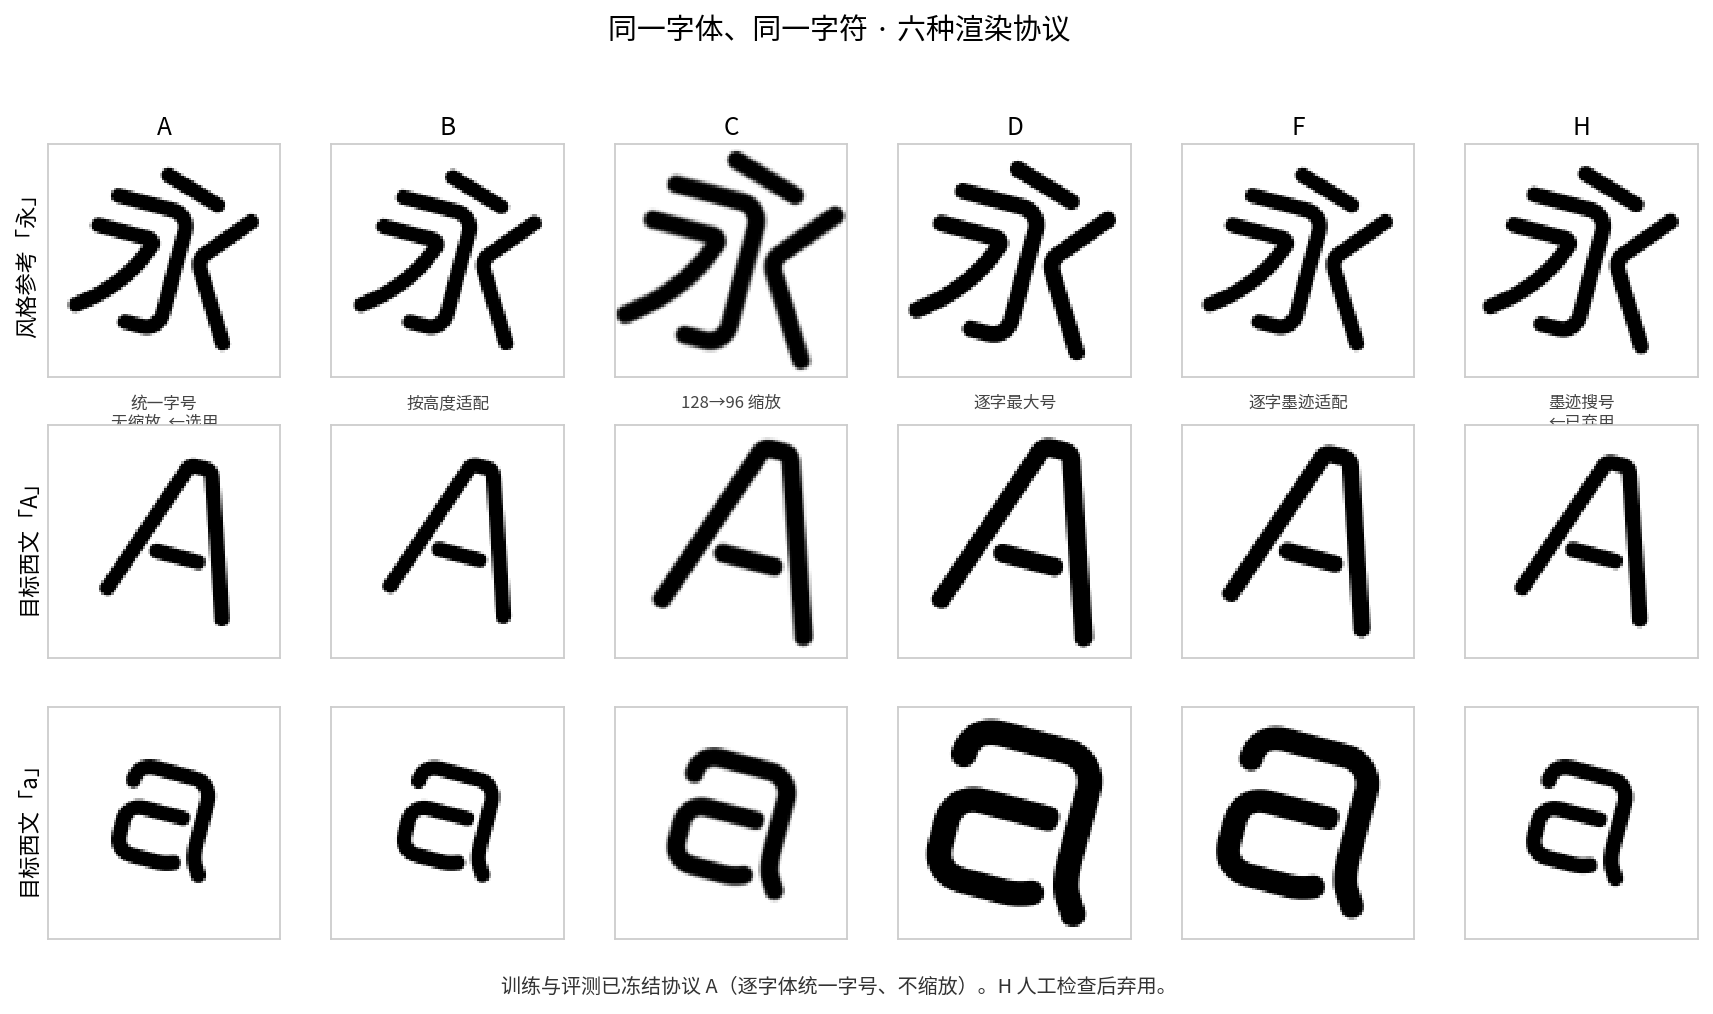
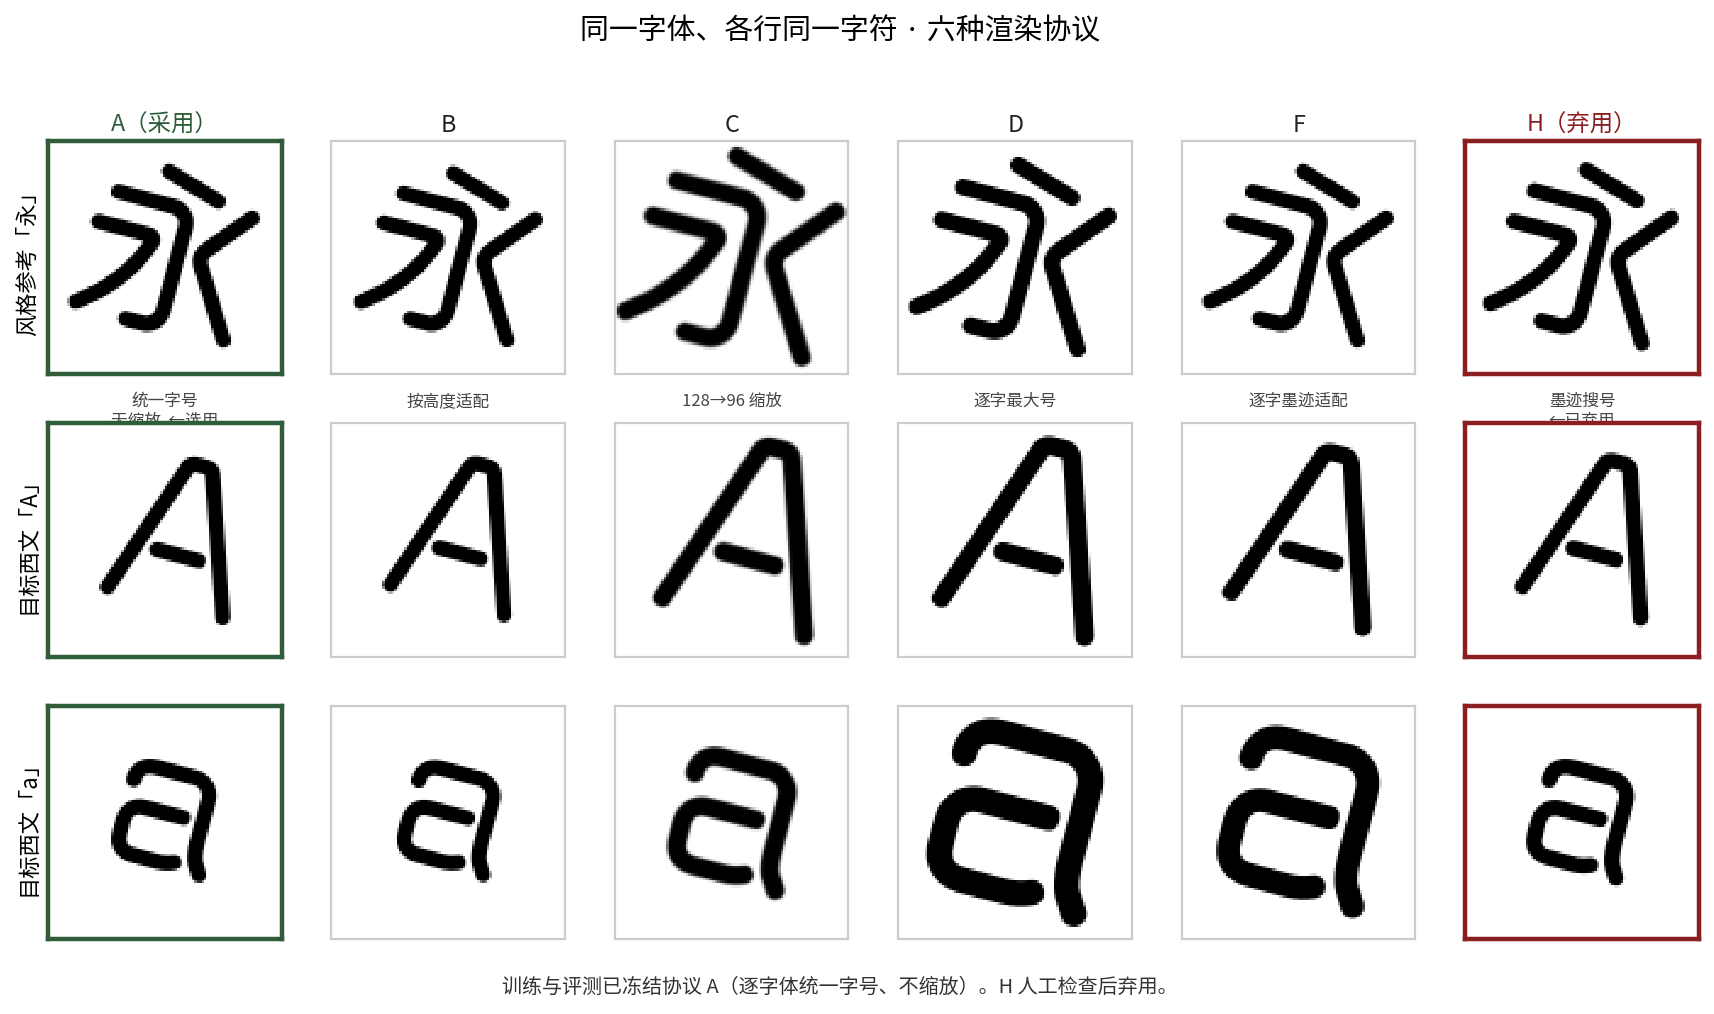
docs: clarify E2b versus E2 comparison

diff --git a/scripts/build_weekly_mentor_figs.py b/scripts/build_weekly_mentor_figs.py
@@ -65,17 +65,19 @@ def fig_protocols() -> None:
             ax.set_xticks([])
             ax.set_yticks([])
             for spine in ax.spines.values():
-                spine.set_color("#cccccc")
+                spine.set_color("#2f5d3a" if proto == "A" else "#8b1e1e" if proto == "H" else "#cccccc")
+                spine.set_linewidth(2.0 if proto in ("A", "H") else 1.0)
             if i == 0:
-                title = f"{proto}"
-                ax.set_title(title, fontproperties=cjk(11, "bold"), pad=4)
+                title = "A（采用）" if proto == "A" else "H（弃用）" if proto == "H" else proto
+                title_color = "#2f5d3a" if proto == "A" else "#8b1e1e" if proto == "H" else "#222"
+                ax.set_title(title, fontproperties=cjk(10.5, "bold"), pad=4, color=title_color)
                 ax.text(
                     0.5, -0.08, PROTO_NOTE[proto], transform=ax.transAxes,
                     ha="center", va="top", fontproperties=cjk(7.5), color="#444",
                 )
             if j == 0:
                 ax.set_ylabel(rlab, fontproperties=cjk(10))
-    fig.suptitle("同一字体、同一字符 · 六种渲染协议", fontproperties=cjk(13, "bold"), y=0.995)
+    fig.suptitle("同一字体、各行同一字符 · 六种渲染协议", fontproperties=cjk(13, "bold"), y=0.995)
     fig.text(
         0.5, 0.01,
         "训练与评测已冻结协议 A（逐字体统一字号、不缩放）。H 人工检查后弃用。",
@@ -108,53 +110,93 @@ def _arrow(ax, start, end):
 
 
 def fig_method() -> None:
-    fig, axes = plt.subplots(1, 2, figsize=(11.4, 4.8))
+    fig, ax = plt.subplots(figsize=(13.4, 8.2))
     fig.patch.set_facecolor("white")
-    titles = ["官方 FontDiffuser：参考字结构", "本方法：目标字残差 Δ"]
-    faces = ("#f4f6f8", "#eef6f1")
-    for ax, title, bg in zip(axes, titles, faces):
-        ax.set_xlim(0, 10)
-        ax.set_ylim(0, 10)
-        ax.set_aspect("equal")
-        ax.axis("off")
-        ax.set_title(title, fontproperties=cjk(12, "bold"), pad=8)
-        ax.add_patch(mpatches.Rectangle((0.15, 0.2), 9.7, 9.4, facecolor=bg, edgecolor="none"))
+    ax.set_xlim(0, 14)
+    ax.set_ylim(0, 11.5)
+    ax.axis("off")
 
-    ax = axes[0]
-    _box(ax, (0.5, 7.6), 4.0, 1.5, "中文风格参考\n（同时送入 Es 与 Ec）", "#fff", fs=8.5)
-    _box(ax, (5.5, 7.6), 4.0, 1.5, "中性内容图\n（西文字 c）", "#fff")
-    _arrow(ax, (2.5, 7.6), (2.5, 6.35))
-    _arrow(ax, (7.5, 7.6), (7.5, 6.35))
-    _box(ax, (0.5, 4.7), 4.0, 1.5, "Ec(参考字)\n→ 结构支路 RSI", "#fff4df", edge="#9a6700")
-    _box(ax, (5.5, 4.7), 4.0, 1.5, "Ec(c)\n→ 身份支路", "#fff")
-    _box(ax, (0.5, 2.6), 9.0, 1.4, "Es(参考字) → 风格注意力", "#fff")
-    _arrow(ax, (2.5, 4.7), (3.2, 4.1))
-    _arrow(ax, (7.5, 4.7), (6.8, 4.1))
-    _arrow(ax, (5.0, 2.6), (5.0, 2.15))
-    _box(ax, (2.2, 0.5), 5.6, 1.5, "UNet 生成西文 c\nRSI 学习参考字与 c 的空间错位", "#fff4df", edge="#9a6700", fs=8.5)
-    ax.text(5, 9.55, "官方即允许异字；跨语系对应更弱是本文假设", ha="center",
-            fontproperties=cjk(7.7), color="#7a5200")
+    fig.suptitle(
+        "E2b vs E2：逐项对照（预期唯一变量 = RSI 结构源）",
+        fontproperties=cjk(15, "bold"), y=0.985,
+    )
+    ax.text(
+        7, 10.82,
+        "两组都从 E1@100k 初始化；冻结 Es/Ec；n-shot 风格条件、UNet、RSI 内部与 loss 相同",
+        ha="center", va="center", fontproperties=cjk(9), color="#444",
+    )
 
-    ax = axes[1]
-    _box(ax, (0.4, 7.6), 3.0, 1.5, "中文参考 R\n（风格）", "#fff")
-    _box(ax, (3.6, 7.6), 3.0, 1.5, "库字体上的\n同一个 c", "#fff")
-    _box(ax, (6.8, 7.6), 2.8, 1.5, "中性 c\n（Noto）", "#fff")
-    _arrow(ax, (1.9, 7.6), (1.9, 6.35))
-    _arrow(ax, (5.1, 7.6), (4.4, 6.35))
-    _arrow(ax, (8.2, 7.6), (6.8, 6.35))
-    _box(ax, (0.4, 4.7), 3.0, 1.5, "Es(R)\n风格 9 token", "#fff")
-    _box(ax, (3.6, 4.7), 6.0, 1.5, "加权混合 − 中性编码  =  Δ\n同字、相对变化", "#d9efe3", edge="#2f5d3a", fs=9)
-    _arrow(ax, (1.9, 4.7), (3.2, 3.55))
-    _arrow(ax, (6.6, 4.7), (6.6, 3.55))
-    _box(ax, (0.4, 2.5), 4.4, 1.4, "风格注意力\n（官方支路，不动）", "#fff", fs=8.5)
-    _box(ax, (5.1, 2.5), 4.5, 1.4, "RSI 结构源改为 Δ\n（模块本身不改）", "#d9efe3", edge="#2f5d3a", fs=8.5)
-    _arrow(ax, (2.6, 2.5), (4.2, 2.1))
-    _arrow(ax, (7.3, 2.5), (5.8, 2.1))
-    _box(ax, (2.2, 0.45), 5.6, 1.5, "UNet 生成西文 c\n结构与身份指向同一个字", "#d9efe3", edge="#2f5d3a")
-    ax.text(5, 9.55, "改接线，不改 RSI 内部", ha="center",
-            fontproperties=cjk(8.5), color="#2f5d3a")
+    label_x, left_x, right_x = 0.25, 2.45, 8.25
+    box_w, box_h = 5.15, 1.25
+    row_y = [8.95, 7.25, 5.55, 3.85, 2.15]
+    row_labels = [
+        ("风格条件", "共享"),
+        ("内容条件", "共享"),
+        ("RSI 结构源", "唯一预期差异"),
+        ("RSI 内部", "共享"),
+        ("训练设置", "共享"),
+    ]
 
-    fig.tight_layout()
+    ax.add_patch(mpatches.FancyBboxPatch(
+        (left_x, 9.95), box_w, 0.62, boxstyle="round,pad=0.02,rounding_size=0.08",
+        facecolor="#fff4df", edgecolor="#9a6700", linewidth=1.2,
+    ))
+    ax.text(left_x + box_w / 2, 10.26, "E2b · official-RSI control",
+            ha="center", va="center", fontproperties=cjk(11, "bold"), color="#7a5200")
+    ax.add_patch(mpatches.FancyBboxPatch(
+        (right_x, 9.95), box_w, 0.62, boxstyle="round,pad=0.02,rounding_size=0.08",
+        facecolor="#eaf5ee", edgecolor="#2f5d3a", linewidth=1.2,
+    ))
+    ax.text(right_x + box_w / 2, 10.26, "E2 · Δ-RSI",
+            ha="center", va="center", fontproperties=cjk(11, "bold"), color="#2f5d3a")
+
+    for y, (name, tag) in zip(row_y, row_labels):
+        ax.text(label_x, y + 0.73, name, ha="left", va="center",
+                fontproperties=cjk(10, "bold"), color="#222")
+        tag_color = "#8b1e1e" if "差异" in tag else "#666"
+        ax.text(label_x, y + 0.30, tag, ha="left", va="center",
+                fontproperties=cjk(7.6), color=tag_color)
+
+    shared_face = "#f5f6f7"
+    left_diff, right_diff = "#fff4df", "#eaf5ee"
+    left_edge, right_edge = "#9a6700", "#2f5d3a"
+
+    shared_rows = [
+        "R={r1,…,rn},  n∈{1,…,8}\nmean Es(R) → 9 style tokens",
+        "Noto c → Ec(c) → MCA\n提供目标字符身份与多尺度内容",
+        None,
+        "Q=结构条件，K/V=UNet skip\nCrossAttn → 18-channel offset → DCN(skip)",
+        "E1@100k · freeze Es/Ec · 80k\nLdiff + 0.01 Lperc + 0.5 Loffset",
+    ]
+    for idx, (y, text) in enumerate(zip(row_y, shared_rows)):
+        if idx == 2:
+            continue
+        _box(ax, (left_x, y), box_w, box_h, text, shared_face, edge="#777", fs=9.3, lw=1.0)
+        _box(ax, (right_x, y), box_w, box_h, text, shared_face, edge="#777", fs=9.3, lw=1.0)
+
+    _box(
+        ax, (left_x, row_y[2]), box_w, box_h,
+        "Ec(R[0])\n绝对参考字结构（R[0] 为首个参考字）",
+        left_diff, edge=left_edge, fs=9.5, lw=1.5,
+    )
+    _box(
+        ax, (right_x, row_y[2]), box_w, box_h,
+        "Δc = ΣTop10 αs Ec(Bs,c) − Ec(Noto c)\n同一目标字符的相对残差",
+        right_diff, edge=right_edge, fs=9.2, lw=1.5,
+    )
+
+    warning = (
+        "当前已启动 run 仍有第二差异：E2 对结构源做 25% drop，而 E2b 未 drop。"
+        "因此当前结果仅作 pilot；正式 matched 对照需统一 source_drop 后重跑。"
+    )
+    ax.add_patch(mpatches.FancyBboxPatch(
+        (0.3, 0.45), 13.1, 1.05, boxstyle="round,pad=0.03,rounding_size=0.08",
+        facecolor="#fdecea", edgecolor="#8b1e1e", linewidth=1.3,
+    ))
+    ax.text(6.85, 0.98, warning, ha="center", va="center",
+            fontproperties=cjk(9.2, "bold"), color="#8b1e1e", wrap=True)
+
+    fig.tight_layout(rect=(0.01, 0.01, 0.99, 0.965))
     fig.savefig(OUT / "fig2_method.png", dpi=160, bbox_inches="tight")
     plt.close(fig)
 
@@ -185,6 +227,7 @@ def fig_e1_examples() -> None:
                 spine.set_color("#cccccc")
             if i == 0:
                 ax.set_title(cols[j], fontproperties=cjk(11, "bold"), pad=6)
+        axes[i, 0].set_ylabel(f"测试例 {i + 1} · {samples[i][1]}", fontproperties=cjk(8.5))
     fig.suptitle("基线 E1（协议 A）满训后的生成示例", fontproperties=cjk(13, "bold"), y=0.995)
     fig.text(
         0.5, 0.012,

diff --git a/reports/WEEKLY_20260905.md b/reports/WEEKLY_20260905.md
@@ -33,7 +33,9 @@ RSI 没有位移真值；训练中的 offset loss 只限制位移不要过大，
 
 详细的论文、代码数据流与 loss 审查见 [RSI_CORRECTNESS_REVIEW_20260905.md](./RSI_CORRECTNESS_REVIEW_20260905.md)。
 
-![方法：官方 RSI 源 vs Δ](weekly_20260905/fig2_method.png)
+下图将 E2b 与 E2 逐项对齐；灰色行均相同，只有“RSI 结构源”是预期主变量。底部红框单列当前运行中发现的额外差异。
+
+![E2b 与 E2 逐项对照](weekly_20260905/fig2_method.png)
 
 ## 2. 数据与 E1 基线
 
@@ -49,16 +51,16 @@ RSI 没有位移真值；训练中的 offset loss 只限制位移不要过大，
 
 | 实验 | 相对 E1 改了什么 | 用来回答 |
 |---|---|---|
-| **E1c** | 原 FD 前向再训 80k，结构源仍为 \(E_c(\text{汉字})\) | 同样再训、不改 RSI 的基线 |
-| **E2b** | 风格改为多张汉字参考；结构源仍为官方 \(E_c\) | 只换风格用法、结构不动 |
+| **E1c** | 冻结编码器的 1-shot official-RSI 训练臂，结构源为 \(E_c(R[0])\) | 不改 RSI 的 1-shot 基线 |
+| **E2b** | 多张汉字参考的 9-token 风格条件；结构源为 \(E_c(R[0])\) | Δ 的 official-RSI 对照 |
 | **E2** | 风格与 E2b 相同；结构源改为 Δ | Δ 是否有独立贡献 |
 
-主结论：**E2 vs E2b**。E1c vs E2b 隔离「多参考风格」；E2c 等附录实验本周不开。
+预期主结论来自 **E2 vs E2b**；E1c vs E2b 用于观察多参考风格条件的影响。但代码复查发现，当前 E2 对结构源做 25% drop，而 E2b 未做同样的 drop，因而当前两条长跑只能作为 pilot，不能作为最终 matched 结论。正式比较需统一 `source_drop` 后重跑。
 
 ## 4. 进度与需知情事项
 
 - 方法已接入训练，短跑通过。
-- 截至 09-05 13:55，**E2b** 为 27800/80000（约 35%）；**E2** 为 9200/80000（约 12%）。二者同日、同提交启动，保证对照可比。
+- 截至 09-05 13:55，**E2b** 为 27800/80000（约 35%）；**E2** 为 9200/80000（约 12%）。二者同日、同提交启动，但因上述 source-drop 差异暂不视为严格 matched。
 - **E1c 未启动**：两张 GPU 被已退出进程占满显存，重置驱动会中断 E2/E2b。默认先保主对照，E2b 结束后补 E1c。
 
-若要求三组必须同一天启动，需允许清卡并重跑 E2/E2b。科学设定本周已冻结，无待拍板的方法问题。
+下一步先修正并验证统一 source-drop，再确定正式 E2/E2b 重跑安排；当前运行保留作诊断，不覆盖。
